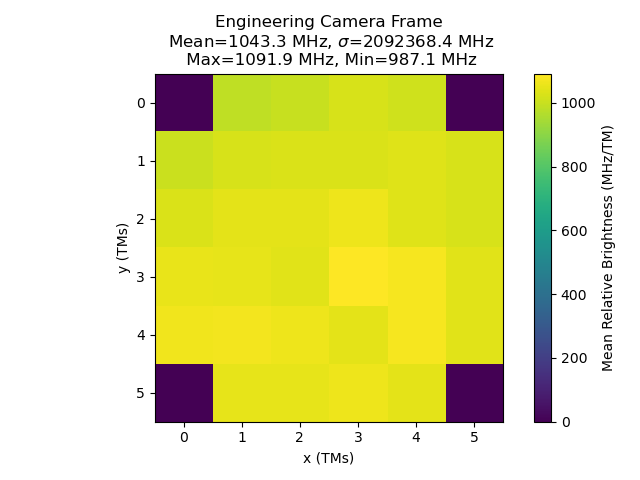
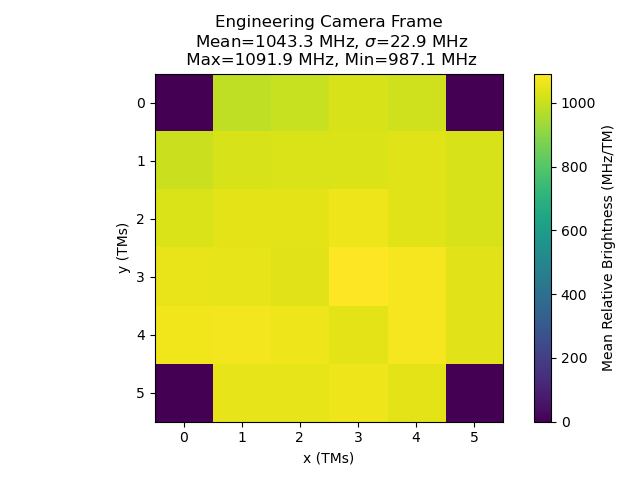
Corrected TM plot

Changed region(s): [[0.25, 0.0625, 0.7812, 0.125]]

diff --git a/scripts/traybake.py b/scripts/traybake.py
@@ -123,7 +123,7 @@ plt.clf()
 plt.cla()
 fig=plt.Figure()
 plt.imshow(tmshz)
-plt.title('Engineering Camera Frame\n Mean='+str('%.1f'%m2hz)+' MHz, $\sigma$='+str('%.1f'%s2)+' MHz\n Max='+str('%.1f'%maxval2hz)+' MHz, Min='+str('%.1f'%minval2hz)+' MHz')
+plt.title('Engineering Camera Frame\n Mean='+str('%.1f'%m2hz)+' MHz, $\sigma$='+str('%.1f'%s2hz)+' MHz\n Max='+str('%.1f'%maxval2hz)+' MHz, Min='+str('%.1f'%minval2hz)+' MHz')
 plt.colorbar(label='Mean Relative Brightness (MHz/TM)')
 plt.xlabel('x (TMs)')
 plt.ylabel('y (TMs)')
